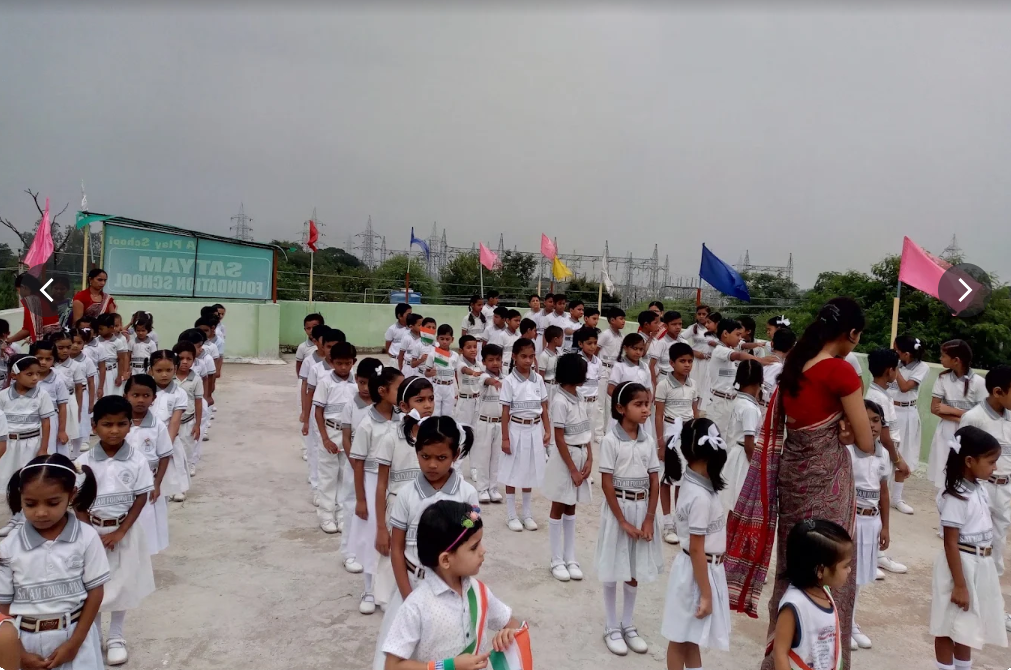
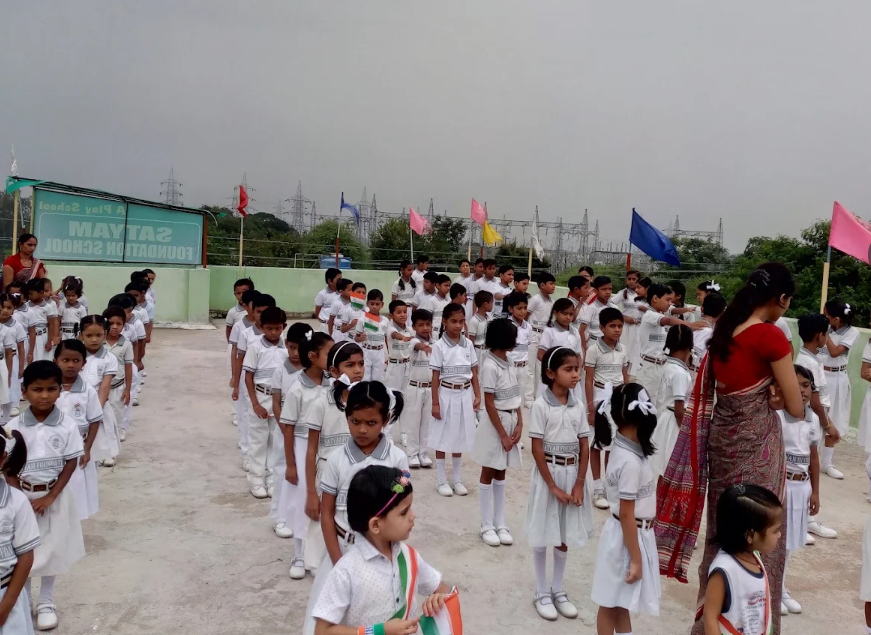
Fixed the UI

diff --git a/src/App.css b/src/App.css
@@ -48,19 +48,28 @@
   justify-content: space-between;
   flex-wrap: wrap;
   gap: 12px;
-  padding: 16px 24px;
+  padding: 14px 24px;
   background: #fff;
-  box-shadow: 0 4px 12px rgba(255, 105, 145, 0.15);
+  border-bottom: 3px solid var(--purple);
+  box-shadow: 0 4px 12px rgba(45, 42, 74, 0.08);
   position: sticky;
   top: 0;
   z-index: 10;
 }
 
 .navbar-brand {
+  display: flex;
+  align-items: center;
+  gap: 8px;
   font-family: 'Baloo 2', system-ui, sans-serif;
-  font-size: 1.4rem;
+  font-size: 1.3rem;
   font-weight: 700;
   color: var(--purple);
+}
+
+.navbar-brand::before {
+  content: "🎒";
+  font-size: 1.4rem;
 }
 
 .navbar-links {
@@ -131,139 +140,83 @@
 .hero {
   position: relative;
   overflow: hidden;
+  padding: 0 24px 60px;
+  background: var(--bg);
+}
+
+.hero-inner {
+  position: relative;
+  z-index: 1;
   display: flex;
   align-items: center;
-  gap: 40px;
+  gap: 56px;
   flex-wrap: wrap;
-  padding: 70px 24px;
-  max-width: 1500px;
+  max-width: 1200px;
   margin: 0 auto;
-  background: radial-gradient(circle at 15% 20%, #fff3d6 0%, transparent 55%),
-    radial-gradient(circle at 85% 80%, #ffe1ea 0%, transparent 55%);
-}
-
-.hero-shape {
-  position: absolute;
-  border-radius: 50%;
-  z-index: 0;
-  opacity: 0.5;
-  animation: float 6s ease-in-out infinite;
-}
-
-.shape-1 {
-  width: 140px;
-  height: 140px;
-  background: var(--yellow);
-  top: -30px;
-  left: -30px;
-  animation-duration: 7s;
-}
-
-.shape-2 {
-  width: 90px;
-  height: 90px;
-  background: var(--teal);
-  bottom: 20px;
-  left: 40%;
-  opacity: 0.3;
-  animation-duration: 5s;
-  animation-delay: 0.5s;
-}
-
-.shape-3 {
-  width: 200px;
-  height: 200px;
-  background: var(--pink);
-  bottom: -80px;
-  right: -60px;
-  opacity: 0.25;
-  animation-duration: 8s;
-  animation-delay: 1s;
-}
-
-@keyframes float {
-  0%, 100% { transform: translateY(0) translateX(0); }
-  50% { transform: translateY(-18px) translateX(8px); }
-}
-
-.hero-float {
-  position: absolute;
-  z-index: 1;
-  font-size: 1.6rem;
-  animation: float 5s ease-in-out infinite;
-  pointer-events: none;
-}
-
-.star-1 {
-  top: 12%;
-  left: 30%;
-  color: var(--yellow);
-  animation-duration: 4s;
-}
-
-.star-2 {
-  top: 60%;
-  left: 8%;
-  color: var(--pink);
-  animation-duration: 6s;
-  animation-delay: 0.8s;
-}
-
-.cloud-1 {
-  top: 5%;
-  right: 15%;
-  font-size: 1.9rem;
-  animation-duration: 7s;
+  padding-top: 56px;
 }
 
 .hero-text {
-  flex: 1 1 320px;
-  position: relative;
-  z-index: 1;
+  flex: 1 1 380px;
+  display: flex;
+  flex-direction: column;
+  gap: 14px;
 }
 
 .hero-badge {
-  display: inline-block;
-  background: var(--yellow);
-  color: var(--dark);
+  display: inline-flex;
+  align-self: flex-start;
+  align-items: center;
+  gap: 6px;
+  background: rgba(106, 63, 209, 0.1);
+  color: var(--purple);
   font-weight: 700;
   font-size: 0.85rem;
-  padding: 6px 16px;
+  padding: 7px 18px;
   border-radius: 999px;
-  margin-bottom: 16px;
 }
 
 .hero h1 {
   font-size: 3.2rem;
-  background: linear-gradient(90deg, var(--dark), var(--purple));
-  -webkit-background-clip: text;
-  background-clip: text;
-  color: transparent;
+  color: var(--dark);
   letter-spacing: -0.01em;
+  margin: 0;
 }
 
 .tagline {
-  font-size: 1.4rem;
-  color: var(--pink);
+  font-size: 1.3rem;
+  color: var(--teal);
   font-weight: 700;
-  margin-bottom: 0.3em;
+  margin: 0;
 }
 
 .hero-sub {
   color: var(--text-light);
   font-weight: 600;
+  margin: 0 0 6px;
+}
+
+.cta-button {
+  align-self: flex-start;
 }
 
 .hero-stats {
   display: flex;
-  gap: 24px;
+  gap: 32px;
   flex-wrap: wrap;
-  margin-top: 28px;
+  margin-top: 18px;
+  padding-top: 18px;
+  border-top: 2px solid rgba(106, 63, 209, 0.12);
 }
 
 .stat {
   display: flex;
   flex-direction: column;
+}
+
+.stat-icon {
+  font-size: 1.1rem;
+  margin-bottom: 2px;
 }
 
 .stat-num {
@@ -281,11 +234,21 @@
 
 .hero-image-wrap {
   position: relative;
-  flex: 1 1 320px;
+  flex: 1 1 380px;
   z-index: 1;
+  padding: 12px 28px 28px 0;
+}
+
+.hero-wave {
+  position: absolute;
+  inset: 0 0 0 40px;
+  background: var(--purple);
+  border-radius: 46% 54% 38% 62% / 56% 42% 58% 44%;
+  z-index: 0;
 }
 
 .hero-image {
+  position: relative;
   min-height: 280px;
   width: 100%;
   max-height: 380px;
@@ -302,9 +265,9 @@
 
 .admission-sticker {
   position: absolute;
-  top: -14px;
-  right: 10px;
-  background: var(--orange);
+  top: 0;
+  right: 6px;
+  background: var(--teal);
   color: #fff;
   font-family: 'Baloo 2', system-ui, sans-serif;
   font-weight: 700;
@@ -312,7 +275,7 @@
   padding: 8px 18px;
   border-radius: 999px;
   transform: rotate(6deg);
-  box-shadow: 0 4px 10px rgba(255, 133, 82, 0.4);
+  box-shadow: 0 4px 10px rgba(22, 163, 148, 0.4);
   z-index: 2;
   animation: wiggle 3.5s ease-in-out infinite;
 }
@@ -777,7 +740,15 @@
     padding: 4px 10px;
   }
 
-  .hero,
+  .hero {
+    padding: 0 16px 40px;
+  }
+
+  .hero-inner {
+    padding-top: 32px;
+    gap: 32px;
+  }
+
   .section {
     padding: 40px 16px;
   }
@@ -788,6 +759,10 @@
 
   .tagline {
     font-size: 1.1rem;
+  }
+
+  .hero-image-wrap {
+    padding: 8px 16px 16px 0;
   }
 
   .section-inner.reverse,

diff --git a/src/components/Hero.jsx b/src/components/Hero.jsx
@@ -4,33 +4,32 @@ import playground from "../assets/playground.png"
 export default function Hero() {
   return (
     <section id="home" className="hero">
-      <div className="hero-shape shape-1" />
-      <div className="hero-shape shape-2" />
-      <div className="hero-shape shape-3" />
-      <span className="hero-float star-1">✦</span>
-      <span className="hero-float star-2">✦</span>
-      <span className="hero-float cloud-1">☁</span>
-      <div className="hero-text">
-        <span className="hero-badge">Nursery to Class 8</span>
-        <h1>Satyam Foundation School</h1>
-        <p className="tagline">Foundation of the Future</p>
-        <p className="hero-sub">Nurturing young minds with joy, curiosity & care</p>
-        <a href="#admission" className="cta-button">Enquire About Admission</a>
-        <div className="hero-stats">
-          <div className="stat">
-            <span className="stat-num">16+</span>
-            <span className="stat-label">Years of Excellence</span>
-          </div>
-          <div className="stat">
-            <span className="stat-num">Nursery–8th</span>
-            <span className="stat-label">Classes Offered</span>
+      <div className="hero-inner">
+        <div className="hero-text">
+          <span className="hero-badge">🎒 Nursery to Class 8</span>
+          <h1>Satyam Foundation School</h1>
+          <p className="tagline">Foundation of the Future</p>
+          <p className="hero-sub">Nurturing young minds with joy, curiosity & care</p>
+          <a href="#admission" className="cta-button">Enquire About Admission</a>
+          <div className="hero-stats">
+            <div className="stat">
+              <span className="stat-icon">🏆</span>
+              <span className="stat-num">16+</span>
+              <span className="stat-label">Years of Excellence</span>
+            </div>
+            <div className="stat">
+              <span className="stat-icon">🎓</span>
+              <span className="stat-num">Nursery–8th</span>
+              <span className="stat-label">Classes Offered</span>
+            </div>
           </div>
         </div>
+        <Reveal className="hero-image-wrap">
+          <div className="hero-wave" />
+          <img src={playground} alt="Students playing at Satyam Foundation School" className="hero-image" />
+          <span className="admission-sticker">Admissions Open</span>
+        </Reveal>
       </div>
-      <Reveal className="hero-image-wrap">
-        <span className="admission-sticker">Admissions Open</span>
-        <img src={playground} alt="Students playing at Satyam Foundation School" className="hero-image" />
-      </Reveal>
     </section>
   )
 }
